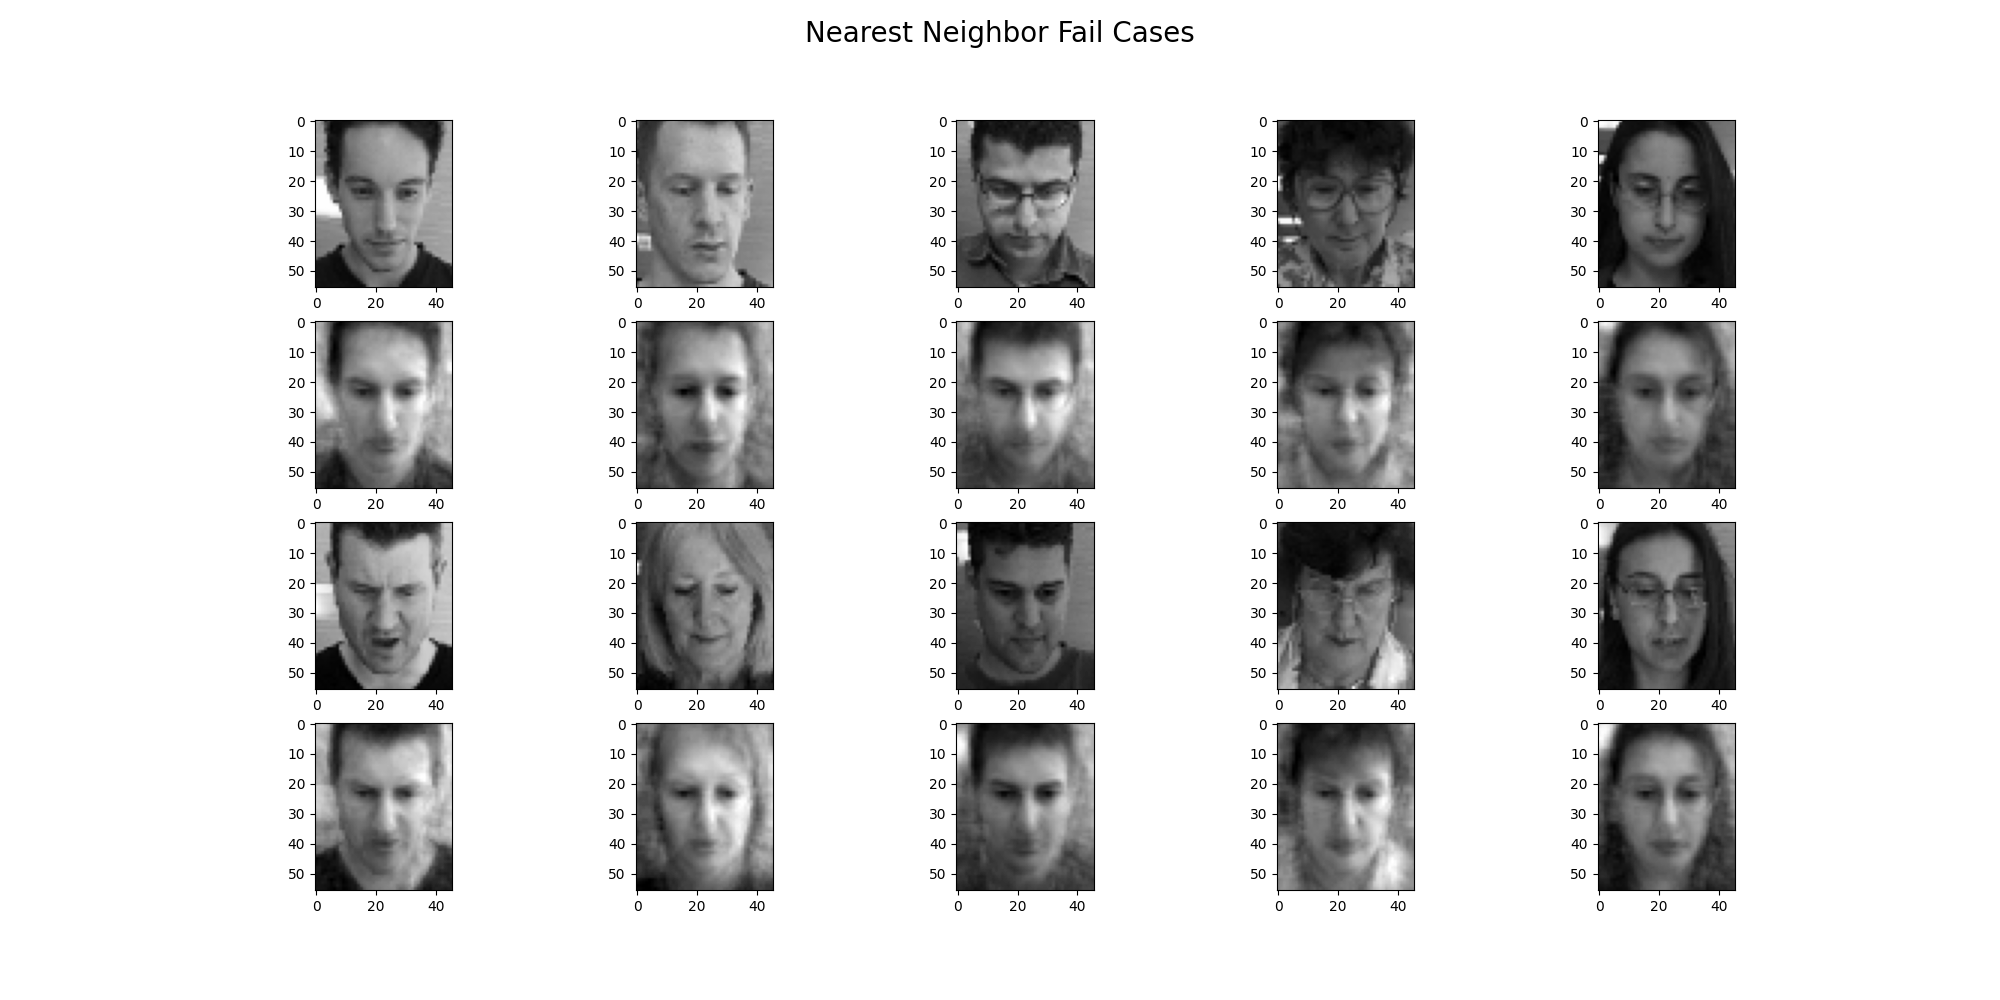
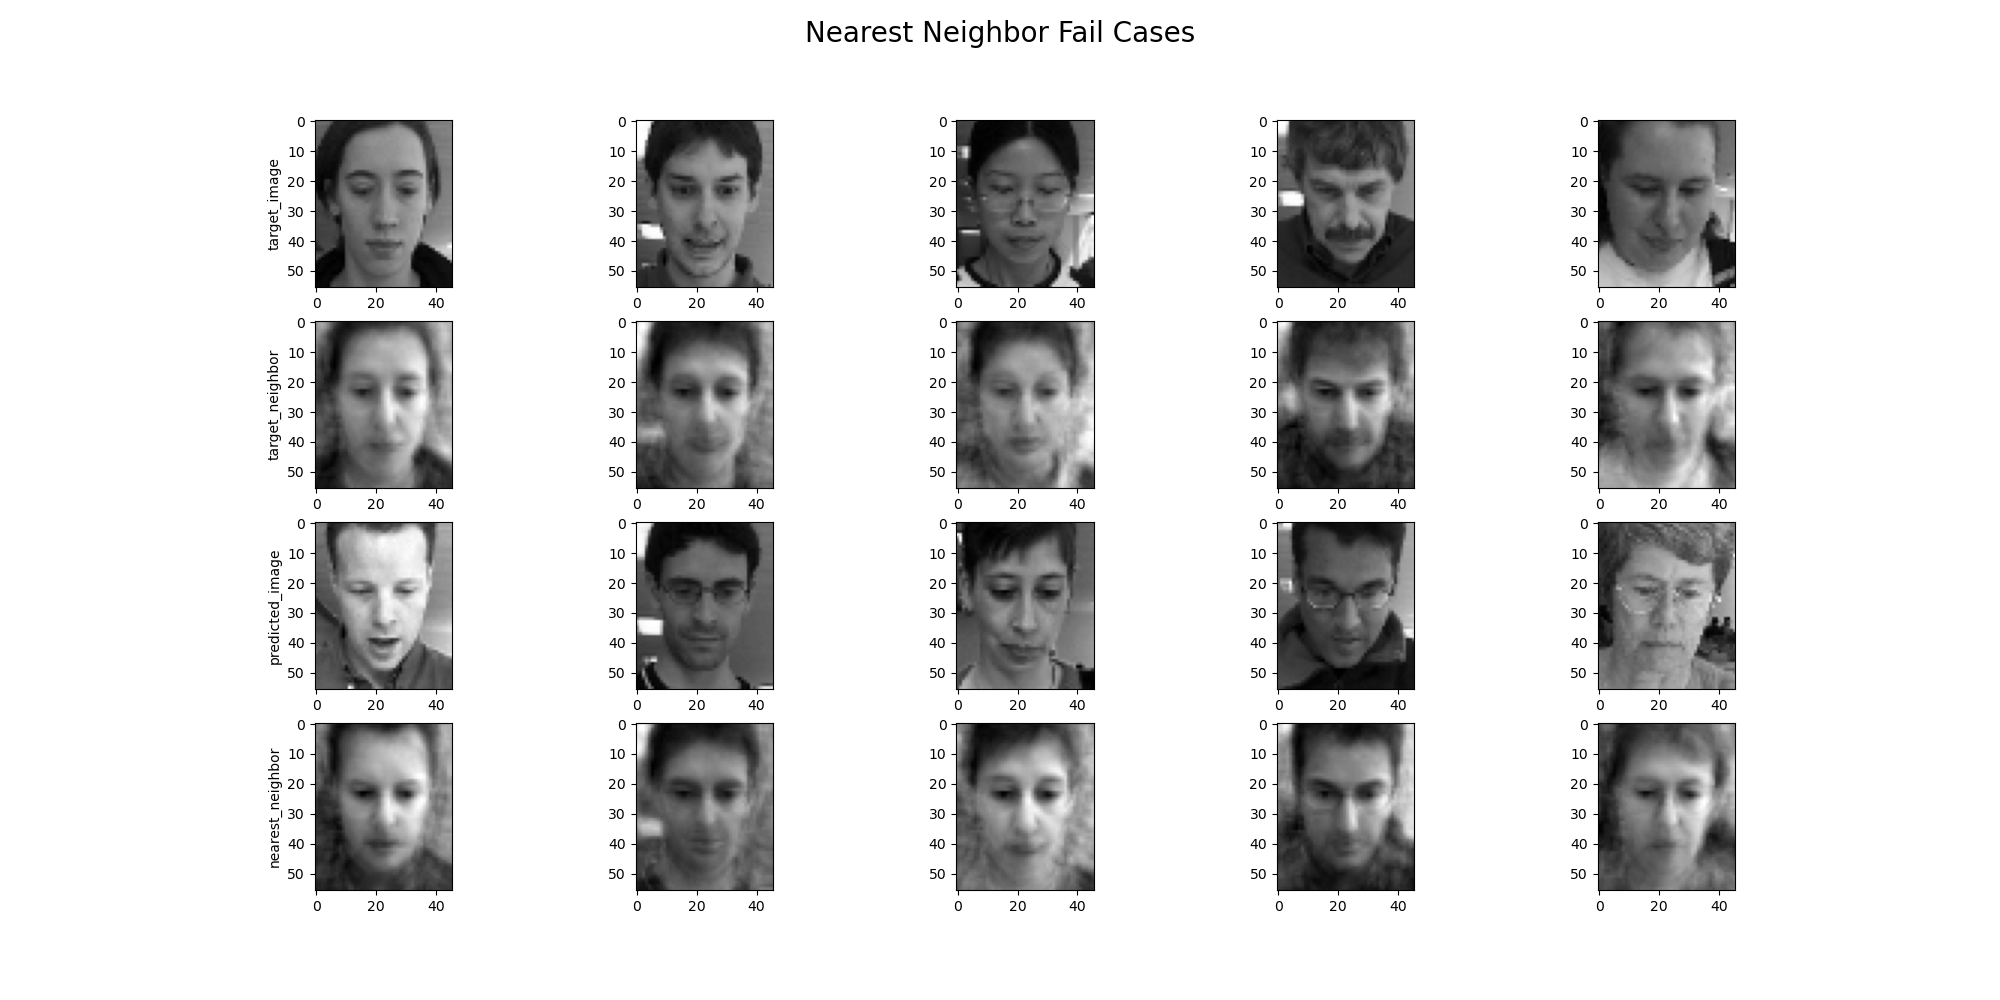
add row label in NN

diff --git a/Q1/utils/visualize.py b/Q1/utils/visualize.py
@@ -54,6 +54,53 @@ def visualize_faces(faces, n=1, shape=(46, 56), random=False, identities=None, t
     plt.close()
 
 
+def visualize_faces_with_row_label(faces, n=1, shape=(46, 56), random=False, identities=None, title=None, cols=5, rows=2):
+    if identities is not None:
+        assert faces.shape[0] == identities.shape[0], print("length of faces and identities are different")
+    rows_label = ['target_image', 'target_neighbor', 'predicted_image', 'nearest_neighbor']
+
+    for i in range(n):
+  
+        axes = []
+        fig = plt.figure(figsize=(20, 10), dpi=100)
+        if title is not None:
+            fig.suptitle(title, fontsize=20)
+
+        n = rows * cols
+        if faces.shape[0] < n:
+            indices = np.arange(faces.shape[0])
+        else:
+            if random:
+                indices = np.random.choice(faces.shape[0], n, replace=False)
+            else:
+                indices = n * i + np.arange(n)
+
+        row_idx = 0
+        for pos, idx in enumerate(indices):
+            face = np.swapaxes(np.reshape(faces[idx], shape), 0, 1)
+            ax = fig.add_subplot(rows, cols, pos+1)
+            
+            if(idx % cols == 0):
+              ax.set_ylabel(rows_label[row_idx])
+              row_idx += 1
+
+            axes.append(ax)
+
+            if identities is not None:
+                identity = str(identities[idx])
+                axes[-1].set_title(identity)
+
+            plt.imshow(face, cmap='gray')
+
+        if title:
+            plt.savefig(f"figures/{title.replace(' ', '_').lower()}.png")
+        else:
+            plt.show()
+
+    plt.close()
+
+
+
 def visualize_graph(x_axis, y_axes, xlabel, ylabel, legend, title=None):
     for y in y_axes:
         plt.plot(x_axis, y)

diff --git a/Q1/eigenfaces.py b/Q1/eigenfaces.py
@@ -9,7 +9,7 @@ from numpy import linalg
 from argparse import ArgumentParser
 
 from utils.dataset import split_train_test
-from utils.visualize import visualize_face, visualize_faces, visualize_graph, visualize_tsne, visualize_3d
+from utils.visualize import visualize_face, visualize_faces, visualize_faces_with_row_label, visualize_graph, visualize_tsne, visualize_3d
 warnings.filterwarnings("ignore")
 
 
@@ -21,7 +21,7 @@ if __name__ == '__main__':
 
     args = parser.parse_args()
 
-    face_data = io.loadmat('Q1/data/face.mat')
+    face_data = io.loadmat('data/face.mat')
     faces, identities = face_data['X'], face_data['l']
 
     """ Split Dataset """
@@ -192,7 +192,8 @@ if __name__ == '__main__':
                         legend=['Test'],
                         title="Identity Recognition (NN) Test Accuracy")
 
-    if args.vis:
+    # if args.vis:
+    if True:
         assert len(max_accuracy_target) == len(max_accuracy_nn)
         indices = np.random.choice(len(max_accuracy_target), 5, replace=False)
 
@@ -203,7 +204,7 @@ if __name__ == '__main__':
                     nearest_neighbor @ max_accuracy_eigenvectors.T) @ max_accuracy_eigenvectors
 
         inp = np.concatenate([target, target_reconstructed, nearest_neighbor, nearest_neighbor_reconstructed], axis=0)
-        visualize_faces(inp, n=1, rows=4, cols=5, title="Nearest Neighbor Fail Cases")
+        visualize_faces_with_row_label(inp, n=1, rows=4, cols=5, title="Nearest Neighbor Fail Cases")
 
     """ 3-Dimension Projection (M=3) """
     m_eigenvectors = low_eigenvectors[:3]
